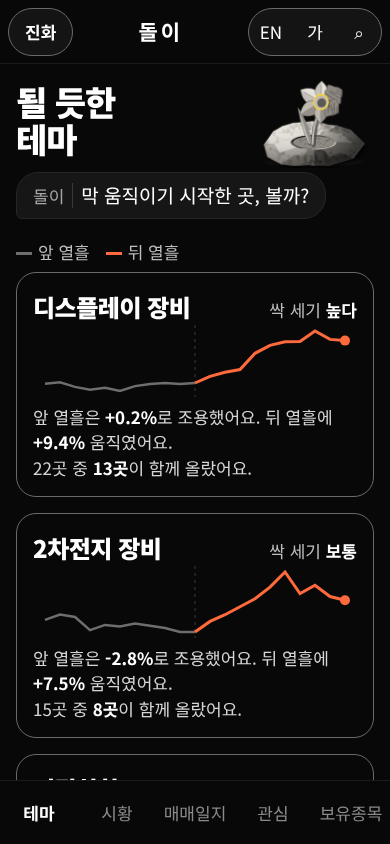
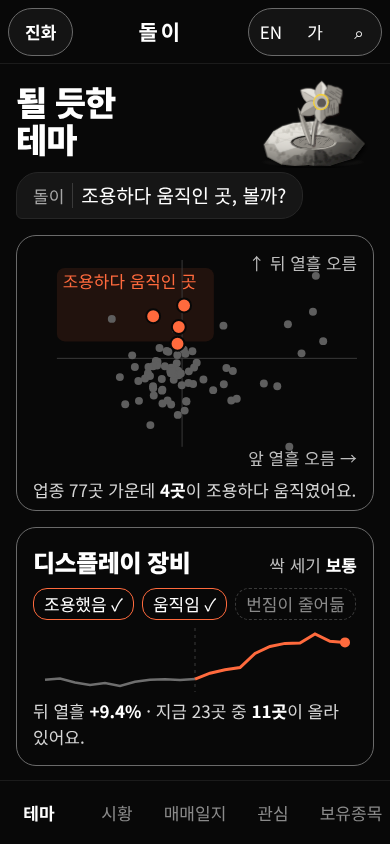
될 듯한 테마 그림 둘째 판 — 싹 지도 · 세 가지 확인 · 번짐 · 먼저와 뒤따름(사장님 16:18 「더 스마트하게」)
Claude-Session: https://claude.ai/code/session_01NCpyR4ELc71hqitZJpUS2Z

diff --git a/docs/design/theme-2026-10-19/mock/s1-home.html b/docs/design/theme-2026-10-19/mock/s1-home.html
@@ -32,23 +32,21 @@ h1{font-size:34px;word-break:keep-all;font-weight:800;line-height:1.1;letter-spa
 .w{background:#fff;color:#080808}.o{border:1px solid var(--edge)}
 h2{font-size:21px;margin:16px 0 8px}
 .unk{border:1px dashed #6A6A6A;border-radius:16px;padding:16px;margin:16px 0}
+.map{border:1px solid var(--edge);border-radius:20px;padding:16px 16px 8px;margin:0 0 16px}
+.map p{font-size:17px;color:#D6D6D6}.ck{display:flex;gap:8px;flex-wrap:wrap;margin:8px 0}.ck span{border:1px solid #3A3A3A;border-radius:14px;padding:2px 10px;font-size:17px;color:#D6D6D6}
+.ck .y{border-color:#FF6A3D;color:#fff}.ck .n{color:#8A8A8A;border-style:dashed}
+.fold{border:1px solid #3A3A3A;border-radius:16px;padding:12px 16px;margin:0 0 16px;font-size:17px;color:#D6D6D6}.fold summary{font-size:19px;color:#fff;min-height:32px}
+.bars{display:flex;align-items:flex-end;gap:4px;height:64px;margin:8px 0}.bars i{flex:1;background:#FF6A3D;border-radius:2px 2px 0 0}.bars i.o{background:#5E5E5E}
+.done{border:1px solid #3A3A3A;border-radius:16px;padding:12px 16px;margin:0 0 16px;font-size:17px;color:#BDBDBD}
 </style></head><body>
 <div class="top"><span class="pill">진화</span><span class="ttl">돌이</span><span class="grp"><span>EN</span><span>가</span><span>⌕</span></span></div><div class="v"><div class="hd"><h1>될 듯한<br>테마</h1><img src="../../../../site/media/stone/jinhwa.svg" alt=""></div>
-<p class="say"><i>돌이</i>막 움직이기 시작한 곳, 볼까?</p>
-<div class="key"><span><i style="background:#6E6E6E"></i>앞 열흘</span><span><i style="background:#FF6A3D"></i>뒤 열흘</span></div>
-<div style="height:8px"></div><a class="card"><div class="r1"><span class="nm">디스플레이 장비</span><span class="gd">싹 세기 <b>높다</b></span></div>
-<svg viewBox="0 0 300 72" width="100%" height="72" aria-hidden="true"><line x1="150.0" y1="0" x2="150.0" y2="72" stroke="#3A3A3A" stroke-dasharray="3 4"/><polyline points="0.0,58.8 15.0,57.3 30.0,61.9 45.0,64.7 60.0,62.7 75.0,66.0 90.0,61.1 105.0,58.9 120.0,58.1 135.0,59.0 150.0,58.0" fill="none" stroke="#6E6E6E" stroke-width="2.5"/><polyline points="150.0,58.0 165.0,51.3 180.0,47.3 195.0,44.6 210.0,28.3 225.0,20.4 240.0,16.8 255.0,16.4 270.0,6.0 285.0,14.4 300.0,15.6" fill="none" stroke="#FF6A3D" stroke-width="3"/><circle cx="300.0" cy="15.6" r="5" fill="#FF6A3D"/></svg>
-<p class="t">앞 열흘은 <b>+0.2%</b>로 조용했어요. 뒤 열흘에 <b class="up">+9.4%</b> 움직였어요.</p>
-<p class="t">22곳 중 <b>13곳</b>이 함께 올랐어요.</p></a><a class="card"><div class="r1"><span class="nm">2차전지 장비</span><span class="gd">싹 세기 <b>보통</b></span></div>
-<svg viewBox="0 0 300 72" width="100%" height="72" aria-hidden="true"><line x1="150.0" y1="0" x2="150.0" y2="72" stroke="#3A3A3A" stroke-dasharray="3 4"/><polyline points="0.0,53.9 15.0,48.6 30.0,51.0 45.0,64.2 60.0,58.9 75.0,60.5 90.0,57.5 105.0,59.8 120.0,62.1 135.0,66.0 150.0,66.0" fill="none" stroke="#6E6E6E" stroke-width="2.5"/><polyline points="150.0,66.0 165.0,55.4 180.0,48.7 195.0,40.7 210.0,32.7 225.0,21.1 240.0,6.0 255.0,27.5 270.0,19.3 285.0,30.5 300.0,34.3" fill="none" stroke="#FF6A3D" stroke-width="3"/><circle cx="300.0" cy="34.3" r="5" fill="#FF6A3D"/></svg>
-<p class="t">앞 열흘은 <b>-2.8%</b>로 조용했어요. 뒤 열흘에 <b class="up">+7.5%</b> 움직였어요.</p>
-<p class="t">15곳 중 <b>8곳</b>이 함께 올랐어요.</p></a><a class="card"><div class="r1"><span class="nm">정밀화학</span><span class="gd">싹 세기 <b>보통</b></span></div>
-<svg viewBox="0 0 300 72" width="100%" height="72" aria-hidden="true"><line x1="150.0" y1="0" x2="150.0" y2="72" stroke="#3A3A3A" stroke-dasharray="3 4"/><polyline points="0.0,53.8 15.0,51.6 30.0,60.3 45.0,66.0 60.0,59.4 75.0,60.7 90.0,58.0 105.0,51.4 120.0,57.9 135.0,60.8 150.0,55.6" fill="none" stroke="#6E6E6E" stroke-width="2.5"/><polyline points="150.0,55.6 165.0,40.3 180.0,40.5 195.0,35.3 210.0,28.8 225.0,15.0 240.0,6.0 255.0,12.6 270.0,11.9 285.0,29.3 300.0,24.7" fill="none" stroke="#FF6A3D" stroke-width="3"/><circle cx="300.0" cy="24.7" r="5" fill="#FF6A3D"/></svg>
-<p class="t">앞 열흘은 <b>-0.3%</b>로 조용했어요. 뒤 열흘에 <b class="up">+5.6%</b> 움직였어요.</p>
-<p class="t">17곳 중 <b>12곳</b>이 함께 올랐어요.</p></a><a class="card"><div class="r1"><span class="nm">물류·운송</span><span class="gd">싹 세기 <b>낮다</b></span></div>
-<svg viewBox="0 0 300 72" width="100%" height="72" aria-hidden="true"><line x1="150.0" y1="0" x2="150.0" y2="72" stroke="#3A3A3A" stroke-dasharray="3 4"/><polyline points="0.0,59.2 15.0,59.1 30.0,57.5 45.0,60.5 60.0,63.2 75.0,66.0 90.0,58.3 105.0,60.1 120.0,57.1 135.0,58.8 150.0,63.8" fill="none" stroke="#6E6E6E" stroke-width="2.5"/><polyline points="150.0,63.8 165.0,58.9 180.0,61.4 195.0,61.5 210.0,51.5 225.0,45.4 240.0,47.5 255.0,26.0 270.0,6.0 285.0,16.5 300.0,36.3" fill="none" stroke="#FF6A3D" stroke-width="3"/><circle cx="300.0" cy="36.3" r="5" fill="#FF6A3D"/></svg>
-<p class="t">앞 열흘은 <b>-0.4%</b>로 조용했어요. 뒤 열흘에 <b class="up">+2.6%</b> 움직였어요.</p>
-<p class="t">27곳 중 <b>14곳</b>이 함께 올랐어요.</p></a>
-<a class="more"><span>이미 많이 오른 곳</span><span>›</span></a>
-<a class="more"><span>돌이는 어떻게 찾나요?</span><span>›</span></a>
+<p class="say"><i>돌이</i>조용하다 움직인 곳, 볼까?</p>
+<div class="map"><svg viewBox="0 0 326 220" width="100%" aria-hidden="true"><rect x="24" y="16" width="158" height="74" fill="#FF6A3D" opacity=".10" rx="8"/><line x1="24" y1="107" x2="326" y2="107" stroke="#3A3A3A"/><line x1="150" y1="8" x2="150" y2="196" stroke="#3A3A3A"/><circle cx="284.6" cy="24.0" r="4" fill="#5E5E5E"/><circle cx="281.7" cy="60.2" r="4" fill="#5E5E5E"/><circle cx="292.0" cy="89.7" r="4" fill="#5E5E5E"/><circle cx="256.5" cy="72.8" r="4" fill="#5E5E5E"/><circle cx="270.2" cy="102.0" r="4" fill="#5E5E5E"/><circle cx="191.6" cy="74.1" r="4" fill="#5E5E5E"/><circle cx="201.1" cy="119.8" r="4" fill="#5E5E5E"/><circle cx="153.4" cy="102.4" r="4" fill="#5E5E5E"/><circle cx="144.6" cy="112.0" r="4" fill="#5E5E5E"/><circle cx="156.8" cy="120.1" r="4" fill="#5E5E5E"/><circle cx="245.8" cy="135.0" r="4" fill="#5E5E5E"/><circle cx="194.6" cy="116.8" r="4" fill="#5E5E5E"/><circle cx="192.0" cy="133.1" r="4" fill="#5E5E5E"/><circle cx="146.5" cy="124.0" r="4" fill="#5E5E5E"/><circle cx="115.7" cy="122.0" r="4" fill="#5E5E5E"/><circle cx="121.5" cy="144.4" r="4" fill="#5E5E5E"/><circle cx="143.6" cy="78.0" r="4" fill="#5E5E5E"/><circle cx="232.3" cy="132.3" r="4" fill="#5E5E5E"/><circle cx="141.9" cy="92.0" r="4" fill="#5E5E5E"/><circle cx="145.2" cy="103.7" r="4" fill="#5E5E5E"/><circle cx="123.6" cy="109.6" r="4" fill="#5E5E5E"/><circle cx="161.1" cy="132.9" r="4" fill="#5E5E5E"/><circle cx="112.7" cy="127.2" r="4" fill="#5E5E5E"/><circle cx="154.4" cy="150.4" r="4" fill="#5E5E5E"/><circle cx="151.7" cy="98.3" r="4" fill="#5E5E5E"/><circle cx="164.7" cy="111.5" r="4" fill="#5E5E5E"/><circle cx="136.2" cy="100.3" r="4" fill="#5E5E5E"/><circle cx="171.5" cy="128.2" r="4" fill="#5E5E5E"/><circle cx="142.2" cy="116.9" r="4" fill="#5E5E5E"/><circle cx="181.3" cy="139.0" r="4" fill="#5E5E5E"/><circle cx="125.3" cy="110.5" r="4" fill="#5E5E5E"/><circle cx="124.9" cy="114.2" r="4" fill="#5E5E5E"/><circle cx="156.4" cy="131.9" r="4" fill="#5E5E5E"/><circle cx="120.8" cy="115.0" r="4" fill="#5E5E5E"/><circle cx="129.6" cy="127.7" r="4" fill="#5E5E5E"/><circle cx="120.8" cy="135.0" r="4" fill="#5E5E5E"/><circle cx="120.9" cy="137.0" r="4" fill="#5E5E5E"/><circle cx="127.3" cy="96.5" r="4" fill="#5E5E5E"/><circle cx="139.0" cy="116.5" r="4" fill="#5E5E5E"/><circle cx="141.6" cy="128.6" r="4" fill="#5E5E5E"/><circle cx="116.2" cy="115.7" r="4" fill="#5E5E5E"/><circle cx="106.0" cy="129.8" r="4" fill="#5E5E5E"/><circle cx="135.4" cy="149.5" r="4" fill="#5E5E5E"/><circle cx="134.5" cy="99.7" r="4" fill="#5E5E5E"/><circle cx="162.1" cy="116.2" r="4" fill="#5E5E5E"/><circle cx="146.1" cy="119.4" r="4" fill="#5E5E5E"/><circle cx="138.1" cy="119.7" r="4" fill="#5E5E5E"/><circle cx="141.0" cy="122.8" r="4" fill="#5E5E5E"/><circle cx="138.7" cy="122.0" r="4" fill="#5E5E5E"/><circle cx="99.8" cy="104.0" r="4" fill="#5E5E5E"/><circle cx="102.5" cy="115.8" r="4" fill="#5E5E5E"/><circle cx="115.6" cy="124.2" r="4" fill="#5E5E5E"/><circle cx="129.8" cy="139.5" r="4" fill="#5E5E5E"/><circle cx="87.4" cy="125.9" r="4" fill="#5E5E5E"/><circle cx="160.4" cy="99.8" r="4" fill="#5E5E5E"/><circle cx="79.3" cy="67.3" r="4" fill="#5E5E5E"/><circle cx="205.0" cy="147.6" r="4" fill="#5E5E5E"/><circle cx="139.9" cy="119.6" r="4" fill="#5E5E5E"/><circle cx="117.7" cy="124.8" r="4" fill="#5E5E5E"/><circle cx="145.7" cy="163.9" r="4" fill="#5E5E5E"/><circle cx="92.8" cy="153.2" r="4" fill="#5E5E5E"/><circle cx="148.8" cy="122.3" r="4" fill="#5E5E5E"/><circle cx="199.5" cy="149.4" r="4" fill="#5E5E5E"/><circle cx="257.9" cy="196.0" r="4" fill="#5E5E5E"/><circle cx="154.1" cy="150.1" r="4" fill="#5E5E5E"/><circle cx="152.6" cy="159.6" r="4" fill="#5E5E5E"/><circle cx="139.0" cy="153.4" r="4" fill="#5E5E5E"/><circle cx="118.1" cy="174.2" r="4" fill="#5E5E5E"/><circle cx="132.7" cy="115.0" r="4" fill="#5E5E5E"/><circle cx="149.7" cy="134.1" r="4" fill="#5E5E5E"/><circle cx="130.2" cy="138.6" r="4" fill="#5E5E5E"/><circle cx="130.3" cy="152.5" r="4" fill="#5E5E5E"/><circle cx="106.6" cy="149.8" r="4" fill="#5E5E5E"/><circle cx="152.0" cy="53.8" r="7" fill="#FF6A3D" stroke="#080808" stroke-width="2"/><circle cx="120.9" cy="64.6" r="7" fill="#FF6A3D" stroke="#080808" stroke-width="2"/><circle cx="146.7" cy="75.5" r="7" fill="#FF6A3D" stroke="#080808" stroke-width="2"/><circle cx="145.4" cy="92.3" r="7" fill="#FF6A3D" stroke="#080808" stroke-width="2"/><text x="326" y="214" text-anchor="end" fill="#BDBDBD" font-size="17">앞 열흘 오름 →</text><text x="326" y="18" text-anchor="end" fill="#BDBDBD" font-size="17">↑ 뒤 열흘 오름</text><text x="30" y="36" fill="#FF6A3D" font-size="17">조용하다 움직인 곳</text></svg><p>업종 77곳 가운데 <b style="color:#fff">4곳</b>이 조용하다 움직였어요.</p></div>
+<a class="card"><div class="r1"><span class="nm">디스플레이 장비</span><span class="gd">싹 세기 <b>보통</b></span></div><div class="ck"><span class="y">조용했음 ✓</span><span class="y">움직임 ✓</span><span class="n">번짐이 줄어듦</span></div><svg viewBox="0 0 300 64" width="100%" height="64" aria-hidden="true"><line x1="150.0" y1="0" x2="150.0" y2="64" stroke="#3A3A3A" stroke-dasharray="3 4"/><polyline points="0.0,51.8 15.0,50.5 30.0,54.5 45.0,56.9 60.0,55.1 75.0,58.0 90.0,53.8 105.0,51.8 120.0,51.2 135.0,51.9 150.0,51.1" fill="none" stroke="#6E6E6E" stroke-width="2.5"/><polyline points="150.0,51.1 165.0,45.2 180.0,41.8 195.0,39.5 210.0,25.4 225.0,18.5 240.0,15.4 255.0,15.0 270.0,6.0 285.0,13.3 300.0,14.4" fill="none" stroke="#FF6A3D" stroke-width="3"/><circle cx="300.0" cy="14.4" r="5" fill="#FF6A3D"/></svg>
+<p class="t">뒤 열흘 <b class="up">+9.4%</b> · 지금 23곳 중 <b>11곳</b>이 올라 있어요.</p></a><a class="card"><div class="r1"><span class="nm">2차전지 장비</span><span class="gd">싹 세기 <b>보통</b></span></div><div class="ck"><span class="y">조용했음 ✓</span><span class="y">움직임 ✓</span><span class="n">번짐이 줄어듦</span></div><svg viewBox="0 0 300 64" width="100%" height="64" aria-hidden="true"><line x1="150.0" y1="0" x2="150.0" y2="64" stroke="#3A3A3A" stroke-dasharray="3 4"/><polyline points="0.0,47.5 15.0,42.9 30.0,45.0 45.0,56.5 60.0,51.8 75.0,53.2 90.0,50.6 105.0,52.6 120.0,54.6 135.0,58.0 150.0,58.0" fill="none" stroke="#6E6E6E" stroke-width="2.5"/><polyline points="150.0,58.0 165.0,48.8 180.0,43.0 195.0,36.1 210.0,29.2 225.0,19.1 240.0,6.0 255.0,24.6 270.0,17.5 285.0,27.2 300.0,30.5" fill="none" stroke="#FF6A3D" stroke-width="3"/><circle cx="300.0" cy="30.5" r="5" fill="#FF6A3D"/></svg>
+<p class="t">뒤 열흘 <b class="up">+7.5%</b> · 지금 16곳 중 <b>10곳</b>이 올라 있어요.</p></a><a class="card"><div class="r1"><span class="nm">정밀화학</span><span class="gd">싹 세기 <b>보통</b></span></div><div class="ck"><span class="y">조용했음 ✓</span><span class="y">움직임 ✓</span><span class="n">번짐이 줄어듦</span></div><svg viewBox="0 0 300 64" width="100%" height="64" aria-hidden="true"><line x1="150.0" y1="0" x2="150.0" y2="64" stroke="#3A3A3A" stroke-dasharray="3 4"/><polyline points="0.0,47.5 15.0,45.5 30.0,53.1 45.0,58.0 60.0,52.3 75.0,53.4 90.0,51.1 105.0,45.3 120.0,51.0 135.0,53.5 150.0,48.9" fill="none" stroke="#6E6E6E" stroke-width="2.5"/><polyline points="150.0,48.9 165.0,35.8 180.0,35.9 195.0,31.4 210.0,25.7 225.0,13.8 240.0,6.0 255.0,11.7 270.0,11.2 285.0,26.2 300.0,22.2" fill="none" stroke="#FF6A3D" stroke-width="3"/><circle cx="300.0" cy="22.2" r="5" fill="#FF6A3D"/></svg>
+<p class="t">뒤 열흘 <b class="up">+5.6%</b> · 지금 17곳 중 <b>8곳</b>이 올라 있어요.</p></a><a class="card"><div class="r1"><span class="nm">물류·운송</span><span class="gd">싹 세기 <b>낮다</b></span></div><div class="ck"><span class="y">조용했음 ✓</span><span class="n">아직 안 움직임</span><span class="n">번짐이 줄어듦</span></div><svg viewBox="0 0 300 64" width="100%" height="64" aria-hidden="true"><line x1="150.0" y1="0" x2="150.0" y2="64" stroke="#3A3A3A" stroke-dasharray="3 4"/><polyline points="0.0,52.1 15.0,52.0 30.0,50.7 45.0,53.2 60.0,55.6 75.0,58.0 90.0,51.3 105.0,52.9 120.0,50.3 135.0,51.7 150.0,56.1" fill="none" stroke="#6E6E6E" stroke-width="2.5"/><polyline points="150.0,56.1 165.0,51.8 180.0,54.0 195.0,54.1 210.0,45.4 225.0,40.2 240.0,42.0 255.0,23.3 270.0,6.0 285.0,15.1 300.0,32.3" fill="none" stroke="#FF6A3D" stroke-width="3"/><circle cx="300.0" cy="32.3" r="5" fill="#FF6A3D"/></svg>
+<p class="t">뒤 열흘 <b class="up">+2.6%</b> · 지금 25곳 중 <b>7곳</b>이 올라 있어요.</p></a>
+<div class="done"><b style="color:#fff">이미 된 테마</b><br>반도체 검사·측정은 한 달에 29.3% 올랐어요. 될 듯한 곳이 아니라 이미 된 곳이라 뺐어요.</div>
+<details class="fold"><summary>돌이는 이렇게 찾아요</summary><p>① 앞 열흘 오름이 3% 아래 ② 뒤 열흘 오름이 3% 넘음 ③ 지금 오른 회사가 절반이 넘고 닷새 전보다 많음. 셋이면 높다, 둘이면 보통이에요. 한 달에 20% 넘게 오른 곳은 이미 된 테마라 뺍니다.</p></details>
 <p class="safe">돌이는 지난 기록으로 찾아요. 될 듯한 곳이지, 될 곳은 아니에요.</p></div><nav class="tabs"><span class="on">테마</span><span class="">시황</span><span class="">매매일지</span><span class="">관심</span><span class="">보유종목</span></nav></body></html>

diff --git a/docs/design/theme-2026-10-19/mock/s2-theme.html b/docs/design/theme-2026-10-19/mock/s2-theme.html
@@ -1,4 +1,4 @@
-<!doctype html><html lang="ko"><head><meta charset="utf-8"><meta name="viewport" content="width=device-width,initial-scale=1"><title>디스플레이 장비</title>
+<!doctype html><html lang="ko"><head><meta charset="utf-8"><meta name="viewport" content="width=device-width,initial-scale=1"><title>될 듯한 테마</title>
 <style>
 :root{--bg:#080808;--ink:#FFF;--sub:#BDBDBD;--line:#1B1B1B;--edge:#6A6A6A;--up:#FF6A3D;--dn:#6C86FF;--gold:#F9D21C}
 *{box-sizing:border-box;margin:0;padding:0}html,body{background:#080808}
@@ -32,14 +32,19 @@ h1{font-size:34px;word-break:keep-all;font-weight:800;line-height:1.1;letter-spa
 .w{background:#fff;color:#080808}.o{border:1px solid var(--edge)}
 h2{font-size:21px;margin:16px 0 8px}
 .unk{border:1px dashed #6A6A6A;border-radius:16px;padding:16px;margin:16px 0}
+.map{border:1px solid var(--edge);border-radius:20px;padding:16px 16px 8px;margin:0 0 16px}
+.map p{font-size:17px;color:#D6D6D6}.ck{display:flex;gap:8px;flex-wrap:wrap;margin:8px 0}.ck span{border:1px solid #3A3A3A;border-radius:14px;padding:2px 10px;font-size:17px;color:#D6D6D6}
+.ck .y{border-color:#FF6A3D;color:#fff}.ck .n{color:#8A8A8A;border-style:dashed}
+.fold{border:1px solid #3A3A3A;border-radius:16px;padding:12px 16px;margin:0 0 16px;font-size:17px;color:#D6D6D6}.fold summary{font-size:19px;color:#fff;min-height:32px}
+.bars{display:flex;align-items:flex-end;gap:4px;height:64px;margin:8px 0}.bars i{flex:1;background:#FF6A3D;border-radius:2px 2px 0 0}.bars i.o{background:#5E5E5E}
+.done{border:1px solid #3A3A3A;border-radius:16px;padding:12px 16px;margin:0 0 16px;font-size:17px;color:#BDBDBD}
 </style></head><body>
 <div class="top"><span class="pill">진화</span><span class="ttl">돌이</span><span class="grp"><span>EN</span><span>가</span><span>⌕</span></span></div><div class="v"><p class="t" style="margin-top:8px">‹ 될 듯한 테마</p><div class="hd"><h1>디스플레이 장비</h1><img src="../../../../site/media/stone/today.svg" alt=""></div>
-<p class="say"><i>돌이</i>왜 될 듯해 보일까?</p>
-<svg viewBox="0 0 358 120" width="100%" height="120" aria-hidden="true"><line x1="179.0" y1="0" x2="179.0" y2="120" stroke="#3A3A3A" stroke-dasharray="3 4"/><polyline points="0.0,101.1 17.9,98.4 35.8,106.7 53.7,111.7 71.6,108.0 89.5,114.0 107.4,105.2 125.3,101.2 143.2,99.8 161.1,101.4 179.0,99.6" fill="none" stroke="#6E6E6E" stroke-width="2.5"/><polyline points="179.0,99.6 196.9,87.5 214.8,80.4 232.7,75.5 250.6,46.2 268.5,31.9 286.4,25.5 304.3,24.6 322.2,6.0 340.1,21.2 358.0,23.4" fill="none" stroke="#FF6A3D" stroke-width="3"/><circle cx="358.0" cy="23.4" r="5" fill="#FF6A3D"/></svg>
-<div class="step"><span class="no">1</span><div><b>처음엔 조용했어요</b><p class="t">앞 열흘 <span class="big">+0.2%</span></p></div></div>
-<div class="step"><span class="no">2</span><div><b>요즘 움직이기 시작했어요</b><p class="t">뒤 열흘 <span class="big up">+9.4%</span></p></div></div>
-<div class="step"><span class="no">3</span><div><b>여럿이 함께 올라요</b><p class="t">22곳 중 <span class="big">13곳</span></p></div></div>
-<h2>함께 움직인 회사</h2><div class="row"><span>비아트론</span><b class="up">+59.4%</b><svg viewBox="0 0 96 36" width="100%" height="36" aria-hidden="true"><line x1="48.0" y1="0" x2="48.0" y2="36" stroke="#3A3A3A" stroke-dasharray="3 4"/><polyline points="0.0,30.0 9.6,29.3 19.2,27.7 28.8,25.1 38.4,24.1 48.0,21.6" fill="none" stroke="#6E6E6E" stroke-width="2.5"/><polyline points="48.0,21.6 57.6,19.0 67.2,6.3 76.8,12.4 86.4,7.2 96.0,6.0" fill="none" stroke="#FF6A3D" stroke-width="3"/><circle cx="96.0" cy="6.0" r="5" fill="#FF6A3D"/></svg></div><div class="row"><span>야스</span><b class="up">+42.0%</b><svg viewBox="0 0 96 36" width="100%" height="36" aria-hidden="true"><line x1="48.0" y1="0" x2="48.0" y2="36" stroke="#3A3A3A" stroke-dasharray="3 4"/><polyline points="0.0,30.0 9.6,28.3 19.2,25.5 28.8,23.5 38.4,20.9 48.0,21.5" fill="none" stroke="#6E6E6E" stroke-width="2.5"/><polyline points="48.0,21.5 57.6,21.6 67.2,21.2 76.8,17.3 86.4,19.7 96.0,6.0" fill="none" stroke="#FF6A3D" stroke-width="3"/><circle cx="96.0" cy="6.0" r="5" fill="#FF6A3D"/></svg></div><div class="row"><span>넥사다이내믹스</span><b class="up">+31.9%</b><svg viewBox="0 0 96 36" width="100%" height="36" aria-hidden="true"><line x1="48.0" y1="0" x2="48.0" y2="36" stroke="#3A3A3A" stroke-dasharray="3 4"/><polyline points="0.0,30.0 9.6,25.6 19.2,25.7 28.8,24.3 38.4,10.2 48.0,7.1" fill="none" stroke="#6E6E6E" stroke-width="2.5"/><polyline points="48.0,7.1 57.6,15.0 67.2,16.6 76.8,14.3 86.4,6.0 96.0,6.5" fill="none" stroke="#FF6A3D" stroke-width="3"/><circle cx="96.0" cy="6.5" r="5" fill="#FF6A3D"/></svg></div><div class="row"><span>디바이스</span><b class="up">+26.6%</b><svg viewBox="0 0 96 36" width="100%" height="36" aria-hidden="true"><line x1="48.0" y1="0" x2="48.0" y2="36" stroke="#3A3A3A" stroke-dasharray="3 4"/><polyline points="0.0,26.3 9.6,30.0 19.2,27.2 28.8,24.3 38.4,21.0 48.0,21.9" fill="none" stroke="#6E6E6E" stroke-width="2.5"/><polyline points="48.0,21.9 57.6,20.5 67.2,19.9 76.8,7.6 86.4,6.0 96.0,11.1" fill="none" stroke="#FF6A3D" stroke-width="3"/><circle cx="96.0" cy="11.1" r="5" fill="#FF6A3D"/></svg></div><div class="row"><span>에프엔에스테크</span><b class="up">+23.7%</b><svg viewBox="0 0 96 36" width="100%" height="36" aria-hidden="true"><line x1="48.0" y1="0" x2="48.0" y2="36" stroke="#3A3A3A" stroke-dasharray="3 4"/><polyline points="0.0,30.0 9.6,24.8 19.2,23.5 28.8,22.1 38.4,17.1 48.0,17.3" fill="none" stroke="#6E6E6E" stroke-width="2.5"/><polyline points="48.0,17.3 57.6,17.6 67.2,16.8 76.8,6.0 86.4,14.6 96.0,15.0" fill="none" stroke="#FF6A3D" stroke-width="3"/><circle cx="96.0" cy="15.0" r="5" fill="#FF6A3D"/></svg></div><div class="row"><span>인베니아</span><b class="up">+19.3%</b><svg viewBox="0 0 96 36" width="100%" height="36" aria-hidden="true"><line x1="48.0" y1="0" x2="48.0" y2="36" stroke="#3A3A3A" stroke-dasharray="3 4"/><polyline points="0.0,30.0 9.6,14.9 19.2,16.4 28.8,14.7 38.4,6.0 48.0,7.2" fill="none" stroke="#6E6E6E" stroke-width="2.5"/><polyline points="48.0,7.2 57.6,9.9 67.2,6.7 76.8,9.2 86.4,12.5 96.0,13.8" fill="none" stroke="#FF6A3D" stroke-width="3"/><circle cx="96.0" cy="13.8" r="5" fill="#FF6A3D"/></svg></div>
+<p class="say"><i>돌이</i>세 가지를 볼까?</p><svg viewBox="0 0 358 110" width="100%" height="110" aria-hidden="true"><line x1="179.0" y1="0" x2="179.0" y2="110" stroke="#3A3A3A" stroke-dasharray="3 4"/><polyline points="0.0,92.3 17.9,89.8 35.8,97.4 53.7,101.9 71.6,98.6 89.5,104.0 107.4,96.1 125.3,92.4 143.2,91.1 161.1,92.5 179.0,90.9" fill="none" stroke="#6E6E6E" stroke-width="2.5"/><polyline points="179.0,90.9 196.9,79.9 214.8,73.5 232.7,69.1 250.6,42.5 268.5,29.5 286.4,23.7 304.3,22.9 322.2,6.0 340.1,19.8 358.0,21.7" fill="none" stroke="#FF6A3D" stroke-width="3"/><circle cx="358.0" cy="21.7" r="5" fill="#FF6A3D"/></svg>
+<div class="step"><span class="no">1</span><div><b>처음엔 조용했어요 ✓</b><p class="t">앞 열흘 <span class="big">+0.2%</span></p></div></div>
+<div class="step"><span class="no">2</span><div><b>요즘 움직였어요 ✓</b><p class="t">뒤 열흘 <span class="big up">+9.4%</span></p></div></div>
+<div class="step"><span class="no">3</span><div><b>번짐이 줄었어요</b><p class="t">오른 회사 수, 날마다</p><div class="bars"><i class="o" style="height:30px"></i><i class="o" style="height:30px"></i><i class="o" style="height:40px"></i><i class="o" style="height:47px"></i><i class="" style="height:53px"></i><i class="" style="height:60px"></i><i class="" style="height:57px"></i><i class="" style="height:53px"></i><i class="" style="height:47px"></i><i class="" style="height:37px"></i></div><p class="t">가장 많을 때 18곳 → 지금 11곳</p></div></div>
+<h2>함께 움직인 회사</h2><div class="row"><span>비아트론<br><small style="color:#BDBDBD;font-size:15px">뒤따름</small></span><b class="up">+59.4%</b><svg viewBox="0 0 96 36" width="100%" height="36" aria-hidden="true"><line x1="48.0" y1="0" x2="48.0" y2="36" stroke="#3A3A3A" stroke-dasharray="3 4"/><polyline points="0.0,30.0 9.6,29.3 19.2,27.7 28.8,25.1 38.4,24.1 48.0,21.6" fill="none" stroke="#6E6E6E" stroke-width="2.5"/><polyline points="48.0,21.6 57.6,19.0 67.2,6.3 76.8,12.4 86.4,7.2 96.0,6.0" fill="none" stroke="#FF6A3D" stroke-width="3"/><circle cx="96.0" cy="6.0" r="5" fill="#FF6A3D"/></svg></div><div class="row"><span>야스<br><small style="color:#BDBDBD;font-size:15px">뒤따름</small></span><b class="up">+42.0%</b><svg viewBox="0 0 96 36" width="100%" height="36" aria-hidden="true"><line x1="48.0" y1="0" x2="48.0" y2="36" stroke="#3A3A3A" stroke-dasharray="3 4"/><polyline points="0.0,30.0 9.6,28.3 19.2,25.5 28.8,23.5 38.4,20.9 48.0,21.5" fill="none" stroke="#6E6E6E" stroke-width="2.5"/><polyline points="48.0,21.5 57.6,21.6 67.2,21.2 76.8,17.3 86.4,19.7 96.0,6.0" fill="none" stroke="#FF6A3D" stroke-width="3"/><circle cx="96.0" cy="6.0" r="5" fill="#FF6A3D"/></svg></div><div class="row"><span>넥사다이내믹스<br><small style="color:#BDBDBD;font-size:15px">먼저</small></span><b class="up">+31.9%</b><svg viewBox="0 0 96 36" width="100%" height="36" aria-hidden="true"><line x1="48.0" y1="0" x2="48.0" y2="36" stroke="#3A3A3A" stroke-dasharray="3 4"/><polyline points="0.0,30.0 9.6,25.6 19.2,25.7 28.8,24.3 38.4,10.2 48.0,7.1" fill="none" stroke="#6E6E6E" stroke-width="2.5"/><polyline points="48.0,7.1 57.6,15.0 67.2,16.6 76.8,14.3 86.4,6.0 96.0,6.5" fill="none" stroke="#FF6A3D" stroke-width="3"/><circle cx="96.0" cy="6.5" r="5" fill="#FF6A3D"/></svg></div><div class="row"><span>디바이스<br><small style="color:#BDBDBD;font-size:15px">뒤따름</small></span><b class="up">+26.6%</b><svg viewBox="0 0 96 36" width="100%" height="36" aria-hidden="true"><line x1="48.0" y1="0" x2="48.0" y2="36" stroke="#3A3A3A" stroke-dasharray="3 4"/><polyline points="0.0,26.3 9.6,30.0 19.2,27.2 28.8,24.3 38.4,21.0 48.0,21.9" fill="none" stroke="#6E6E6E" stroke-width="2.5"/><polyline points="48.0,21.9 57.6,20.5 67.2,19.9 76.8,7.6 86.4,6.0 96.0,11.1" fill="none" stroke="#FF6A3D" stroke-width="3"/><circle cx="96.0" cy="11.1" r="5" fill="#FF6A3D"/></svg></div><div class="row"><span>에프엔에스테크<br><small style="color:#BDBDBD;font-size:15px">먼저</small></span><b class="up">+23.7%</b><svg viewBox="0 0 96 36" width="100%" height="36" aria-hidden="true"><line x1="48.0" y1="0" x2="48.0" y2="36" stroke="#3A3A3A" stroke-dasharray="3 4"/><polyline points="0.0,30.0 9.6,24.8 19.2,23.5 28.8,22.1 38.4,17.1 48.0,17.3" fill="none" stroke="#6E6E6E" stroke-width="2.5"/><polyline points="48.0,17.3 57.6,17.6 67.2,16.8 76.8,6.0 86.4,14.6 96.0,15.0" fill="none" stroke="#FF6A3D" stroke-width="3"/><circle cx="96.0" cy="15.0" r="5" fill="#FF6A3D"/></svg></div><div class="row"><span>인베니아<br><small style="color:#BDBDBD;font-size:15px">먼저</small></span><b class="up">+19.3%</b><svg viewBox="0 0 96 36" width="100%" height="36" aria-hidden="true"><line x1="48.0" y1="0" x2="48.0" y2="36" stroke="#3A3A3A" stroke-dasharray="3 4"/><polyline points="0.0,30.0 9.6,14.9 19.2,16.4 28.8,14.7 38.4,6.0 48.0,7.2" fill="none" stroke="#6E6E6E" stroke-width="2.5"/><polyline points="48.0,7.2 57.6,9.9 67.2,6.7 76.8,9.2 86.4,12.5 96.0,13.8" fill="none" stroke="#FF6A3D" stroke-width="3"/><circle cx="96.0" cy="13.8" r="5" fill="#FF6A3D"/></svg></div>
 <a class="more"><span>23곳 모두 보기</span><span>›</span></a>
-<div class="unk"><b>아직 모르는 것</b><p class="t">왜 움직이는지는 뉴스로 확인해야 해요. 계속 갈지는 아무도 몰라요.</p></div>
+<div class="unk"><b>아직 모르는 것</b><p class="t">왜 움직이는지는 뉴스로 확인해야 해요. 번짐이 줄면 싹이 시들 수도 있어요.</p></div>
 <p class="safe">돌이는 지난 기록으로 찾아요. 될 듯한 곳이지, 될 곳은 아니에요.</p></div><nav class="tabs"><span class="on">테마</span><span class="">시황</span><span class="">매매일지</span><span class="">관심</span><span class="">보유종목</span></nav></body></html>

diff --git a/docs/design/theme-2026-10-19/mock/s3-company.html b/docs/design/theme-2026-10-19/mock/s3-company.html
@@ -1,4 +1,4 @@
-<!doctype html><html lang="ko"><head><meta charset="utf-8"><meta name="viewport" content="width=device-width,initial-scale=1"><title>비아트론</title>
+<!doctype html><html lang="ko"><head><meta charset="utf-8"><meta name="viewport" content="width=device-width,initial-scale=1"><title>될 듯한 테마</title>
 <style>
 :root{--bg:#080808;--ink:#FFF;--sub:#BDBDBD;--line:#1B1B1B;--edge:#6A6A6A;--up:#FF6A3D;--dn:#6C86FF;--gold:#F9D21C}
 *{box-sizing:border-box;margin:0;padding:0}html,body{background:#080808}
@@ -32,15 +32,19 @@ h1{font-size:34px;word-break:keep-all;font-weight:800;line-height:1.1;letter-spa
 .w{background:#fff;color:#080808}.o{border:1px solid var(--edge)}
 h2{font-size:21px;margin:16px 0 8px}
 .unk{border:1px dashed #6A6A6A;border-radius:16px;padding:16px;margin:16px 0}
+.map{border:1px solid var(--edge);border-radius:20px;padding:16px 16px 8px;margin:0 0 16px}
+.map p{font-size:17px;color:#D6D6D6}.ck{display:flex;gap:8px;flex-wrap:wrap;margin:8px 0}.ck span{border:1px solid #3A3A3A;border-radius:14px;padding:2px 10px;font-size:17px;color:#D6D6D6}
+.ck .y{border-color:#FF6A3D;color:#fff}.ck .n{color:#8A8A8A;border-style:dashed}
+.fold{border:1px solid #3A3A3A;border-radius:16px;padding:12px 16px;margin:0 0 16px;font-size:17px;color:#D6D6D6}.fold summary{font-size:19px;color:#fff;min-height:32px}
+.bars{display:flex;align-items:flex-end;gap:4px;height:64px;margin:8px 0}.bars i{flex:1;background:#FF6A3D;border-radius:2px 2px 0 0}.bars i.o{background:#5E5E5E}
+.done{border:1px solid #3A3A3A;border-radius:16px;padding:12px 16px;margin:0 0 16px;font-size:17px;color:#BDBDBD}
 </style></head><body>
 <div class="top"><span class="pill">진화</span><span class="ttl">돌이</span><span class="grp"><span>EN</span><span>가</span><span>⌕</span></span></div><div class="v"><p class="t" style="margin-top:8px">‹ 디스플레이 장비</p><div class="hd"><h1>비아트론</h1><img src="../../../../site/media/stone/company.svg" alt=""></div>
-<p class="say"><i>돌이</i>테마 안에서 어디쯤일까?</p>
-<svg viewBox="0 0 358 120" width="100%" height="120" aria-hidden="true"><line x1="179.0" y1="0" x2="179.0" y2="120" stroke="#3A3A3A" stroke-dasharray="3 4"/><polyline points="0.0,114.0 35.8,110.6 71.6,103.8 107.4,92.2 143.2,87.2 179.0,76.0" fill="none" stroke="#6E6E6E" stroke-width="2.5"/><polyline points="179.0,76.0 214.8,64.4 250.6,7.2 286.4,34.9 322.2,11.5 358.0,6.0" fill="none" stroke="#FF6A3D" stroke-width="3"/><circle cx="358.0" cy="6.0" r="5" fill="#FF6A3D"/></svg>
-<p class="t">열흘 동안 <span class="big up">+59.4%</span></p>
-<p class="t">디스플레이 장비 23곳 가운데 열흘 동안 가장 많이 움직인 곳이에요.</p>
-<div style="height:16px"></div>
-<a class="btn w">사기 전에 「왜 사?」 열한 질문</a>
-<a class="btn o">관심 담기</a>
+<p class="say"><i>돌이</i>먼저 움직였을까, 뒤따랐을까?</p><svg viewBox="0 0 358 110" width="100%" height="110" aria-hidden="true"><line x1="179.0" y1="0" x2="179.0" y2="110" stroke="#3A3A3A" stroke-dasharray="3 4"/><polyline points="0.0,104.0 35.8,101.0 71.6,94.7 107.4,84.2 143.2,79.7 179.0,69.5" fill="none" stroke="#6E6E6E" stroke-width="2.5"/><polyline points="179.0,69.5 214.8,59.0 250.6,7.1 286.4,32.2 322.2,11.0 358.0,6.0" fill="none" stroke="#FF6A3D" stroke-width="3"/><circle cx="358.0" cy="6.0" r="5" fill="#FF6A3D"/></svg>
+<div class="step"><span class="no">1</span><div><b>열흘 동안</b><p class="t"><span class="big up">+59.4%</span></p></div></div>
+<div class="step"><span class="no">2</span><div><b>뒤따라 움직였어요</b><p class="t">앞 닷새 <b class="up">+20.9%</b> · 뒤 닷새 <b class="up">+31.9%</b></p></div></div>
+<div class="step"><span class="no">3</span><div><b>테마 안 자리</b><p class="t">디스플레이 장비 23곳 가운데 열흘 동안 가장 많이 움직였어요.</p></div></div>
+<div style="height:16px"></div><a class="btn w">사기 전에 「왜 사?」 열한 질문</a><a class="btn o">관심 담기</a>
 <a class="more"><span>회사 자세히 보기</span><span>›</span></a>
 <div class="unk"><b>아직 모르는 것</b><p class="t">많이 오른 곳은 크게 내리기도 해요. 오른 까닭은 아직 확인 전이에요.</p></div>
 <p class="safe">돌이는 지난 기록으로 찾아요. 사고팔기를 권하지 않아요.</p></div><nav class="tabs"><span class="on">테마</span><span class="">시황</span><span class="">매매일지</span><span class="">관심</span><span class="">보유종목</span></nav></body></html>
